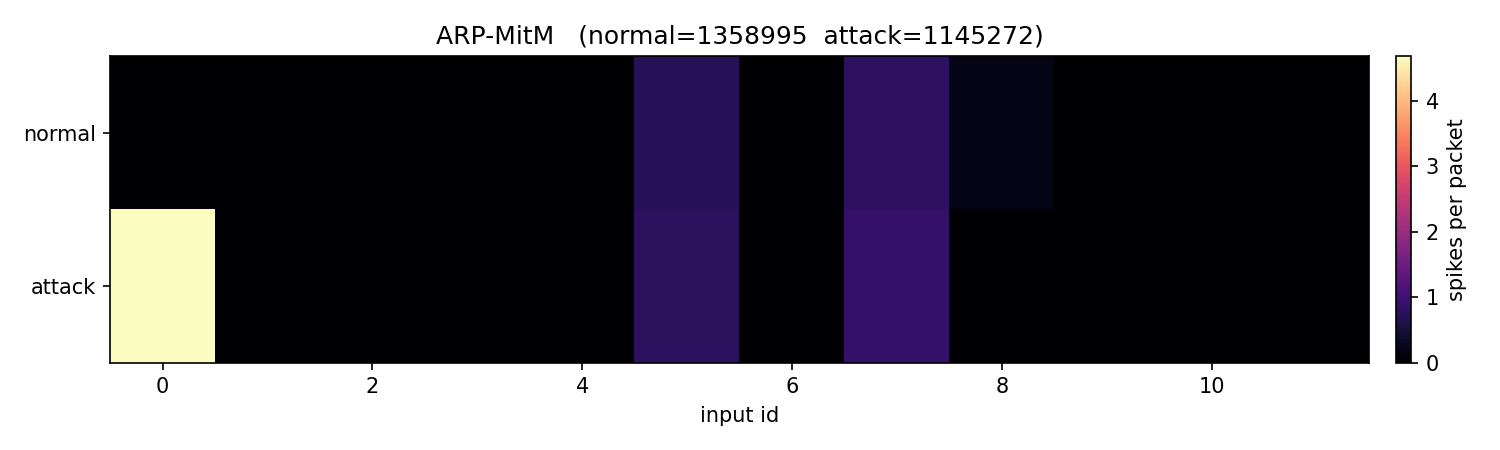
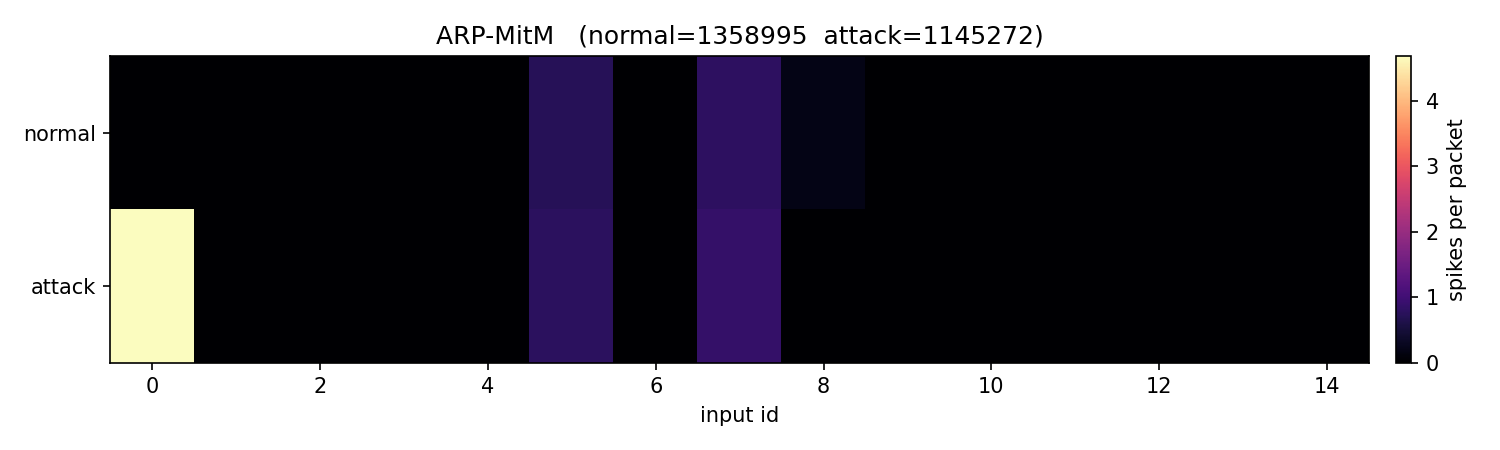
new inputs for arp mitm

diff --git a/encoder/raw2spikes.py b/encoder/raw2spikes.py
@@ -11,6 +11,8 @@ IP_LEN_BIG = 1000
 IP_LEN_SMALL = 60
 DEF_MAC_MULTI = 2
 
+BCAST_MAC = b"\xff\xff\xff\xff\xff\xff"  
+ARP_REQ_THRESHOLD = 20
 
 NS, CWR, ECE, URG, ACK, PSH, RST, SYN, FIN = (
     1 << 8,
@@ -31,7 +33,9 @@ def init_ttfs_state():
         "ttl_base" : {},
         "seen_tcp_ports" : set(),
         "ip_pref" : Counter(),
-        "local" : None
+        "local" : None,
+        "ip_to_macs_arp": defaultdict(set),
+        "mac_to_tpas" : defaultdict(set)
     }
 
 
@@ -62,11 +66,15 @@ def parse_ipv4(raw):
     if len(raw) < 20: return None
     ihl_decl = (raw[0] & 0x0F) * 4
     ihl = 20 if len(raw) < ihl_decl else ihl_decl
+    ident = struct.unpack("!H", raw[4:6])[0]
+    flags_frag = struct.unpack("!H", raw[6:8])[0]
     return {
         "ihl" : ihl,
         "ttl" : raw[8],
         "proto" : raw[9],
         "totlen" : struct.unpack("!H", raw[2:4])[0],
+        "ident": ident,
+        "flags_frag": flags_frag,
         "src" : raw[12:16],
         "dst" : raw[16:20],
         "payload" : raw[ihl:]
@@ -86,7 +94,9 @@ def parse_tcp(raw):
         "ack" : ack,
         "win" : win,
         "flags" : flags,
-        "payload_len" : len(raw) - hdr_len
+        "payload_len" : len(raw) - hdr_len,
+        "hdr_len" : hdr_len,
+        "payload": raw[hdr_len:]
     }
 
 
@@ -129,6 +139,7 @@ def _update_local_prefix(state, src, dst):
         state["local"], _ = state["ip_pref"].most_common(1)[0]
 
 
+
 def encode_packet(ts_s, raw, state):
     t_ms = ts_s * 1000.0
     eth = parse_eth(raw)
@@ -138,10 +149,27 @@ def encode_packet(ts_s, raw, state):
     if eth["etype"] == 0x0806:
         arp = parse_arp(eth["payload"])
         if not arp: return
-        spa, sha = arp["spa"], arp["sha"]
+        spa, sha, op = arp["spa"], arp["sha"], arp["op"]
 
         if _ip_multi_mac(state, ip=spa, mac=sha):
             _fire("ip_multi_mac", t_ms)
+
+        if arp["spa"] and arp["spa"] == arp["tpa"]:
+            _fire("arp_gratuitous", t_ms)
+
+        s_dup = state["ip_to_macs_arp"][spa]
+        # reply only
+        if op == 2:
+            s_dup.add(sha)
+            if len(s_dup) >= DEF_MAC_MULTI:
+                _fire("arp_dup_ip", t_ms)
+
+        # request
+        if op == 1:
+            s_many = state["mac_to_tpas"][sha]
+            s_many.add(arp["tpa"])
+            if len(s_many) >= ARP_REQ_THRESHOLD:
+                _fire("arp_many_req", t_ms)
 
         return
     
@@ -183,6 +211,7 @@ def encode_packet(ts_s, raw, state):
 
         if (F & SYN) and not (F & ACK):
             _fire("tcp_syn", t_ms)
+
         if (F & SYN) and (F & ACK):
             _fire("tcp_synack", t_ms)
         if (F & RST) and not (F & ACK):

diff --git a/config.py b/config.py
@@ -14,14 +14,19 @@ INPUT_MAP = {
     "ip_totlen_small" : 8,
     "tcp_null" : 9,
     "tcp_xmas" : 10,
-    "tcp_fin_scan" : 11
+    "tcp_fin_scan" : 11,
+    # these inputs are triggered shortly before the start of the ARP MitM attack
+    # (approximately 5 packets before the attack traffic begins) 
+    "arp_gratuitous" : 12,
+    "arp_dup_ip" : 13,
+    "arp_many_req" : 14
 }
 
 WEIGHTS = {
     "ip_multi_mac" : 8,
     "ttl_increase" : 5,
     "tcp_synack" : 15,
-    "tcp_syn" : 3,
+    "tcp_syn" : 6,
     "udp_len_large" : 1,
     "new_tcp_dport" : 4,
     "ip_totlen_large" : 1,
@@ -29,7 +34,10 @@ WEIGHTS = {
     "tcp_rst" : 10,    
     "tcp_null" : 10,
     "tcp_xmas" : 10,
-    "tcp_fin_scan" : 10
+    "tcp_fin_scan" : 10,
+    "arp_gratuitous" : 10,
+    "arp_dup_ip" : 10,
+    "arp_many_req" : 10    
 }
 
 N_INPUTS = len(INPUT_MAP)
